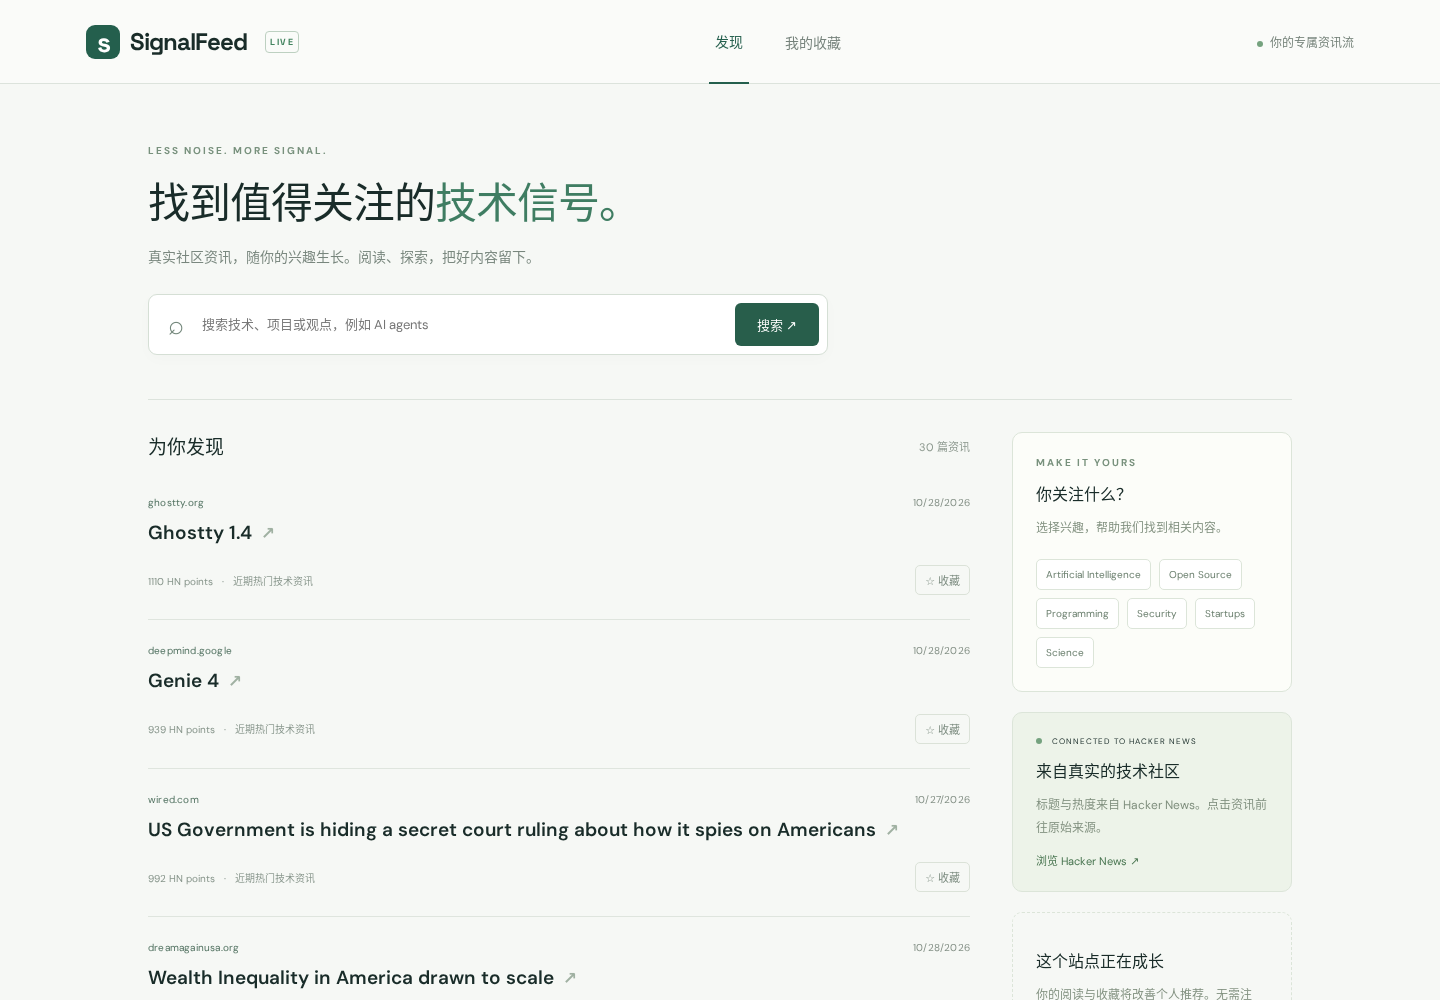
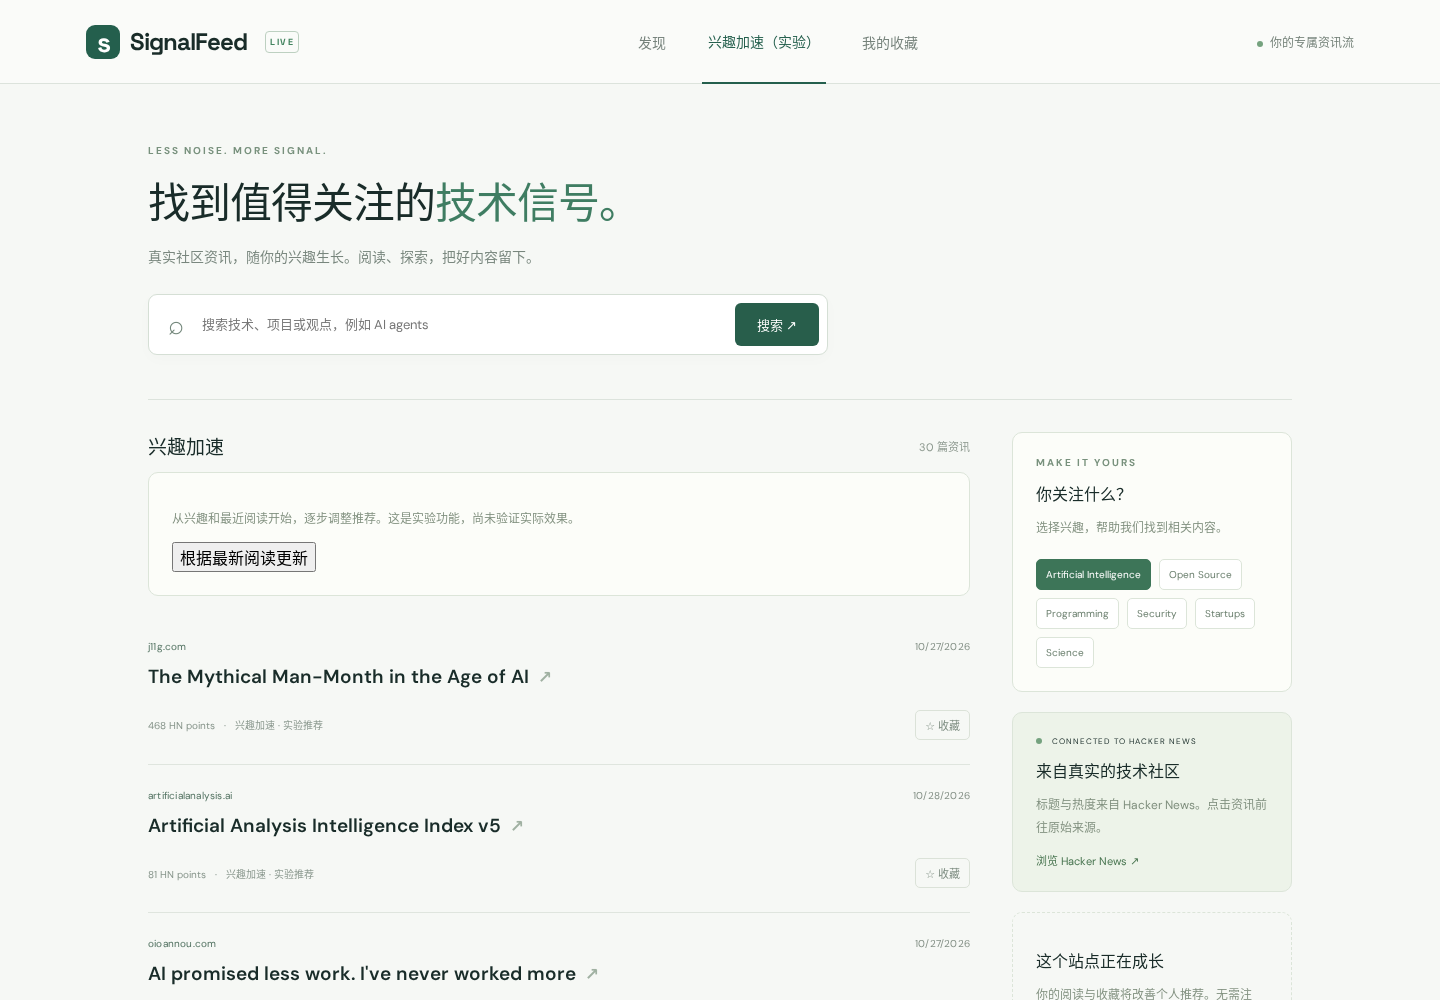
fix: serve zero-evidence users immediately and clarify experiment fallback

diff --git a/frontend/src/main.tsx b/frontend/src/main.tsx
@@ -309,9 +309,9 @@ function App() {
                 {busy ? "正在加载…" : `${listing.items.length} 篇资讯`}
               </span>
             </div>
-            {tab === "cold" && <div className="panel" role="status">
+            {tab === "cold" && <div className="panel experiment-note" role="status">
               <p>从兴趣和最近阅读开始，逐步调整推荐。这是实验功能，尚未验证实际效果。</p>
-              {listing.experiment?.status.includes("fallback") && <p>加速模型准备中，当前按兴趣与热度推荐。</p>}
+              {listing.experiment?.status.includes("fallback") && <p>加速暂时不可用，已按兴趣与热度推荐。</p>}
               <button disabled={busy} onClick={() => load("/api/feed?cold=true")}>根据最新阅读更新</button>
             </div>}
             {error && (

diff --git a/frontend/src/style.css b/frontend/src/style.css
@@ -297,6 +297,20 @@ h3 {
   display: block;
   margin: 20px auto;
 }
+.experiment-note button {
+  padding: 8px 12px;
+  border: 1px solid #b9cbbd;
+  border-radius: 6px;
+  background: #eef4ee;
+  color: #315f4b;
+  font: inherit;
+  font-size: 12px;
+  cursor: pointer;
+}
+.experiment-note button:disabled {
+  opacity: 0.6;
+  cursor: wait;
+}
 footer {
   border-top: 1px solid #dce3dc;
   padding: 28px 6%;

diff --git a/tests/test_coldfuse.py b/tests/test_coldfuse.py
@@ -287,9 +287,13 @@ def test_cold_api_feedback_snapshot_and_missing_model_fallback(online_env, monke
     monkeypatch.setattr(service, "encode_query", lambda text: x[0])
     monkeypatch.setattr(api, "service", service)
     monkeypatch.setattr(serving, "active_ranker", lambda: None)
-    monkeypatch.setattr(
-        worker, "recommend", lambda payload: (None, "unavailable-fallback", None)
-    )
+    calls = []
+
+    def research(payload):
+        calls.append(payload)
+        return None, "unavailable-fallback", None
+
+    monkeypatch.setattr(worker, "recommend", research)
     with db() as c:
         for a in service.items:
             c.execute(
@@ -297,6 +301,9 @@ def test_cold_api_feedback_snapshot_and_missing_model_fallback(online_env, monke
                 (a["id"], a["title"], a["url"], a["domain"], now, a["score"], 0, now),
             )
     with TestClient(api.app) as client:
+        empty = client.get("/api/feed?cold=true").json()
+        assert empty["experiment"]["status"] == "no-personal-signal"
+        assert not calls
         client.put("/api/interests", json={"topics": ["AI"]})
         feed = client.get("/api/feed?cold=true").json()
         assert feed["experiment"]["status"] == "unavailable-fallback"

diff --git a/src/signalfeed/cold_serving.py b/src/signalfeed/cold_serving.py
@@ -69,8 +69,8 @@ def recommend(service, user, limit, snapshot):
     cf_scores = np.array([cf.get(a["id"], 0) for a in items], dtype="float32")
     core = ColdFuse(x, popularity)
     result = core.recommend(h, eligible, explicit, cf_scores=cf_scores)
-    status, model_id = "empty-catalog", None
-    if items:
+    status, model_id = ("no-personal-signal" if items else "empty-catalog"), None
+    if items and (h or explicit.any()):
         from .cold_worker import recommend as research
 
         payload = dict(
@@ -117,9 +117,9 @@ def recommend(service, user, limit, snapshot):
         {
             **items[i],
             "bookmarked": items[i]["id"] in saved,
-            "reason": "兴趣加速 · 实验推荐"
-            if "fallback" not in status
-            else "兴趣推荐 · 加速准备中",
+            "reason": "近期热门技术资讯"
+            if status == "no-personal-signal"
+            else ("根据兴趣推荐" if "fallback" in status else "兴趣加速 · 实验推荐"),
         }
         for i in selected
     ]

diff --git a/README.md b/README.md
@@ -2,6 +2,8 @@
 
 一个真实数据驱动、可在单张 24GB GPU 上训练的技术资讯搜索与个性化推荐项目。基于 MiniOneRec 的 SID / SFT / 约束解码能力扩展，加入传统召回、DNN 精排、混合检索和实际反馈服务。
 
+**ColdFuse** 面向 0–5 次阅读的新用户，将显式兴趣、内容、ItemCF 与 SID 召回按证据强度融合，并使用独立语义 DNN。网站“兴趣加速（实验）”与离线评测共用核心；实验协议、失败记录及真实结果见 [ColdFuse 设计](docs/COLDFUSE_DESIGN.md) 和 [结果](docs/RESULTS.md)。这不是未经验证的线上收益声明。
+
 ![SignalFeed 实际页面](docs/website.png)
 
 **本机访问：http://127.0.0.1:8765**。网站使用 Hacker News 真实内容；MIND 是独立的历史研究实验。网站没有用离线指标冒充线上效果。
@@ -60,6 +62,7 @@ flowchart LR
 | 精排 | 注意力聚合历史兴趣、候选交互和类别特征的 DNN；重训无个性化消融 |
 | 服务效率 | 增量内容 embedding 缓存、查询缓存、生成独立进程与超时回退 |
 | 产品闭环 | HN 接入、匿名身份、曝光/点击/收藏、反馈重训和原子模型指针 |
+| 用户冷启动 | ColdFuse 兴趣先验收缩、阅读可靠度、CF 支持及 SID beam 集中度门控；0/1/3/5/10 配对实验 |
 
 没有使用 MiniOneRec GPR 分支中的模拟价值/模拟行为作为实验标签。
 
@@ -75,7 +78,7 @@ signalfeed upstream-smoke --steps 32
 signalfeed train --model sid --seed 42
 signalfeed train --model ranker --seed 42
 python -c 'from signalfeed.ranker import train; train(personal=False)'
-signalfeed evaluate --split valid --ranking-limit 2000 --retrieval-limit 300
+signalfeed evaluate --split valid --ranking-limit 2000 --retrieval-limit 2000
 signalfeed tune-fusion
 signalfeed evaluate --seed 42 --retrieval-limit 1000
 signalfeed infer --history N33502,N40509 --limit 10  # 使用实际存在的 MIND ID
@@ -105,6 +108,18 @@ signalfeed infer --history N33502,N40509 --limit 10  # 使用实际存在的 MIN
 曝光定义为卡片至少 50% 可见持续 1 秒。请求列表不是曝光；点击和收藏绑定原始请求、条目及位置，事件幂等。浏览器测试使用独立数据库，`SIGNALFEED_TEST_EVENTS=1` 的事件不进入线上统计或训练。清除浏览器 Cookie 会创建新身份。
 
 `GET /api/feed?research=true` 可调用独立进程中的 MIND→HN 生成召回与 DNN 实验，超时 2 秒回退。它是**跨域研究推理**，不代表 HN 上有已验证的收益。默认 feed 不自动使用 MIND 权重。
+
+`GET /api/feed?cold=true` 对应 ColdFuse 入口。选择兴趣或阅读后，点击“根据最新阅读更新”可立即更新推荐；无模型、过载、超时均有内容兜底。SID 语义锚点不计入真实历史。模型输出、兴趣、历史与实际特征绑定到请求快照；`signalfeed retrain-online --cold` 仅用独立版本的成熟真实反馈训练、验证和晋升。
+
+复现实验（要求已经完成审计基线；输出使用独立目录）：
+
+```bash
+SIGNALFEED_BASELINE_HOME=/data1/zhuzy/signalfeed/audit-v2 \
+SIGNALFEED_HOME=/data1/zhuzy/signalfeed/my-cold-run \
+SIGNALFEED_COLD_PARALLEL=1 bash scripts/run_cold_experiments.sh
+```
+
+每个种子重新训练 ColdFuse DNN；27 组内部验证选择，随后评测同一批请求的两种兴趣场景、全部五种阅读预算、14 个对照/消融及单独自然冷人群。三个种子可以并行评测；不设置 `SIGNALFEED_COLD_PARALLEL` 时依次运行。训练模型与逐条预测保留在输出目录，报告拒绝混合来源或覆盖已有预测。MIND 代理兴趣来自更早历史，不是真实 onboarding 标签。
 
 ```bash
 signalfeed retrain-online

diff --git a/docs/AGENT_PROGRESS.md b/docs/AGENT_PROGRESS.md
@@ -59,3 +59,10 @@
 - 修复为按预注册取值集合精确校验，而不只检查数量；新增从 tune 到 evaluate 的小型端到端回归，覆盖 10 个场景/预算组和 14 个方法。候选取值保持不变，正式文档更正为 27；将在新 `coldfuse-v2` 完整重训、重选、重评，不改写旧来源。
 - **已确认 P2，低频访问反复冷启动**：研究任务完成后若无人取结果，旧定时器仍杀掉进程。改为专用后台交换线程完成收发、立即缓存和取消任务期限；请求与硬超时线程均不在 Pipe.recv 上阻塞。新增完成后空闲、同一进程复用与原硬超时回归；健康接口增加 ColdFuse 在线模型错误/版本。
 - 增加验证检查点、基线门控、评测来源一致性检查；运行脚本支持有界的三种子并行并保留追加日志。以上修复均未使用 ColdFuse 测试结果，尚无任何测试预测。
+
+## 阶段 5：正式离线实验运行中，服务最后调整
+
[1 lines of base64/hex data omitted]
+- 冻结后的工程验收为 Python 51、Playwright 10、构建及 Ruff 全过。真实 HN 工作进程空闲 35 秒后仍是同一个进程，更换兴趣的研究推理约 114ms；选择文件出现后身份哈希改变，旧缓存失效，加载首次约 2.09s 回退，随后缓存约 42–48ms。
+- 服务单独优化“无历史且无显式兴趣”时直接返回同一热门策略，避免等待对结果没有影响的研究模型；快照/成熟反馈路径保留。回退文案改为暂不可用而不是无限准备中，更新按钮补齐样式。核心、训练与离线评测函数不变；新增断言验证空信号请求不调用研究进程。
+- 上述服务调整与之后的 HTTP 成本、最终工程验收单独记录提交/哈希，不能冒充离线实验冻结版本。旧测试服务已停止；真实反馈数据库未写入自动化事件。

diff --git a/docs/EXPERIMENTS.md b/docs/EXPERIMENTS.md
@@ -61,3 +61,11 @@ MIND 只证明历史日志上的效果。HN 内容、用户 ID、反馈库完全
 - 24h 内有效点击本身可作为推定曝光，单独记录 exposure_kind；不再要求必须随后收到一秒可见事件。页面统计仅报告推荐页、成熟 24h、真实事件的有效曝光并拆分 viewable/click_inferred。
 - 所有尝试过的候选都消费其验证时间窗口，失败/未晋升不能重新用于调参验收。发布要求至少 20 个独立用户、每个出现的混合标签历史分组至少 20 请求、NDCG 用户 bootstrap 下界为正、AUC 不下降，且各分组均不退化。它仍不是 CTR 因果证明。
 - 研究推理两秒返回回退，任务最长 30 秒后终止并允许重建工作进程；缓存绑定文章内容、向量及模型版本。
+
+## ColdFuse 独立协议
+
+完整预注册与首次测试前固定的实现细节见 [COLDFUSE_DESIGN.md](COLDFUSE_DESIGN.md)。ColdFuse 独立训练语义特征 DNN，不能混用原 `mind-text-v1` 或 `online-text-v2` 模型。显式代理、历史预算、目录与正目标分母在同一请求中严格配对；主模拟与自然冷人群分别报告。
+
+ColdFuse 在线快照为 `cold-semantic-v1`，由 `retrain-online --cold` 单独读取，发布至 `cold-online-models`；默认 learner 仍拒绝这些不同语义的快照。标签窗口、时间剔除、测试事件隔离、用户 bootstrap 和验证消费规则完全保留。网站实验策略产生的真实反馈可以进入这条独立路径；没有成熟真实反馈时不训练、不晋升。
+
+固定参数集合是 3×3×3=27 组。`coldfuse-v1` 的文字/验收计数曾误写成 81，导致测试在预测生成前拒绝。失败运行保留；`coldfuse-v2` 完整重跑，不修改候选值或依据测试结果选择参数。

diff --git a/docs/RESULTS.md b/docs/RESULTS.md
@@ -84,3 +84,5 @@ MIND 为历史日志实验；HN 没有真实成熟反馈时不宣称线上收益
 ColdFuse 共享核心、网站实验入口、独立 DNN 特征契约、成熟真实反馈训练路径及完整实验执行器现已实现。初步工程验收为 Python 48 项、浏览器 10 项、构建/Ruff 通过；真实 HN 目录上的缺模型回退与点击后更新已验证。新增代码尚没有冷启动实验结果，不能将上文基线数字当作 ColdFuse 收益。下一阶段使用独立 `coldfuse-v1` 目录，按设计协议运行并保留所有正负结果。
 
 ColdFuse 首次流程 `coldfuse-v1` 因“3×3×3 误记为 81”的验收错误，在测试评估前停止。它完成了 27 组内部验证，但没有任何测试预测；不作为正式结果。原权重、验证逐请求得分和失败日志保留。新的 `coldfuse-v2` 将按原参数集合的 27 个组合重新完整运行，详见进度记录。
+
+`coldfuse-v2` 已完成三种子重新训练和全部 27 组验证，选择 tau=3、generation=0.25、dnn=0.5。三种子测试正在冻结的 `e56be97` 检出中运行，尚未写最终结论。服务另行优化空历史无兴趣时的无效模型等待；离线核心和评分代码保持不变，最终报告将分别标注实验与服务验证来源。
